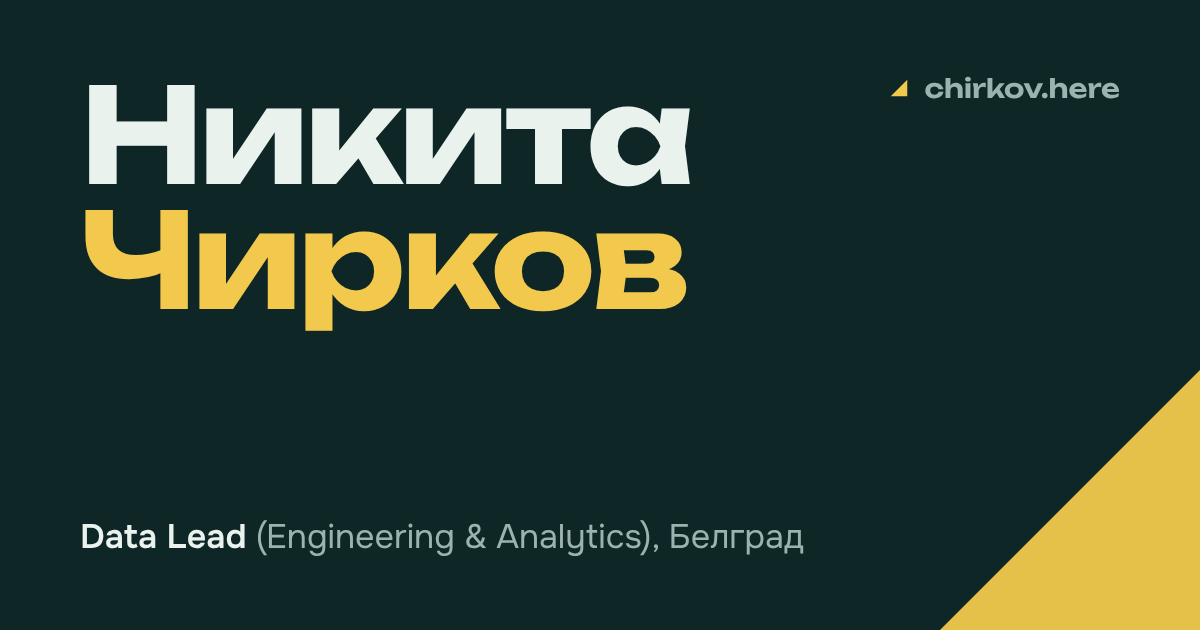
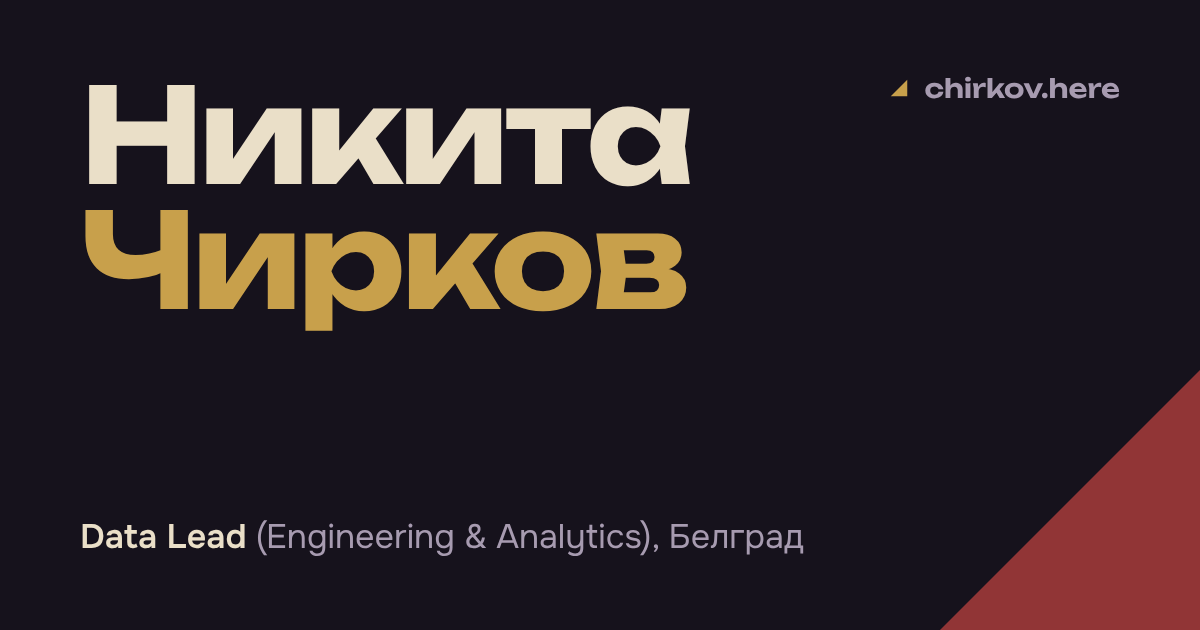
Dark fantasy palette, add Telegram link
Obsidian background, old gold accents, arcane teal for charts, crimson details.
Removed the footer line about the surname.

diff --git a/index.html b/index.html
@@ -20,12 +20,12 @@
 <meta property="og:image:height" content="630">
 <meta name="twitter:card" content="summary_large_image">
 <link rel="icon" href="/favicon.svg" type="image/svg+xml">
-<meta name="theme-color" content="#0f2627">
+<meta name="theme-color" content="#16121c">
 <link rel="preload" href="/fonts/unbounded-latin-wght-normal.woff2" as="font" type="font/woff2" crossorigin>
 <link rel="preload" href="/fonts/onest-latin-wght-normal.woff2" as="font" type="font/woff2" crossorigin>
 <link rel="stylesheet" href="/style.css">
 <script type="application/ld+json">
-{"@context":"https://schema.org","@type":"Person","@id":"https://chirkov.here/#me","name":"Nikita Chirkov","alternateName":["Никита Чирков","frezj"],"url":"https://chirkov.here/","email":"mailto:nikita@chirkov.here","jobTitle":"Data Lead (Engineering & Analytics)","address":{"@type":"PostalAddress","addressLocality":"Belgrade","addressCountry":"RS"},"alumniOf":[{"@type":"CollegeOrUniversity","name":"Technische Universität Berlin"},{"@type":"CollegeOrUniversity","name":"RUDN University"}],"knowsAbout":["Data engineering","Data warehousing","ClickHouse","Airflow","Spark","dbt","Snowflake","Power BI","A/B testing","Demand forecasting","LLM applications"],"knowsLanguage":["en","ru","sr","es"],"sameAs":["https://www.linkedin.com/in/frezj","https://github.com/frezj"]}
+{"@context":"https://schema.org","@type":"Person","@id":"https://chirkov.here/#me","name":"Nikita Chirkov","alternateName":["Никита Чирков","frezj"],"url":"https://chirkov.here/","email":"mailto:nikita@chirkov.here","jobTitle":"Data Lead (Engineering & Analytics)","address":{"@type":"PostalAddress","addressLocality":"Belgrade","addressCountry":"RS"},"alumniOf":[{"@type":"CollegeOrUniversity","name":"Technische Universität Berlin"},{"@type":"CollegeOrUniversity","name":"RUDN University"}],"knowsAbout":["Data engineering","Data warehousing","ClickHouse","Airflow","Spark","dbt","Snowflake","Power BI","A/B testing","Demand forecasting","LLM applications"],"knowsLanguage":["en","ru","sr","es"],"sameAs":["https://www.linkedin.com/in/frezj","https://github.com/frezj","https://t.me/frezj"]}
 </script>
 <script defer src="/app.js"></script>
 </head>
@@ -34,7 +34,7 @@
 
 <header class="wrap top">
   <a class="mark" href="/" aria-label="Nikita Chirkov, home">
-    <svg viewBox="0 0 16 16" aria-hidden="true"><path d="M2 14 14 2v12z" fill="#f2c94c"/></svg>
+    <svg viewBox="0 0 16 16" aria-hidden="true"><path d="M2 14 14 2v12z" fill="#c8a04b"/></svg>
     chirkov.here
   </a>
   <nav class="lang" aria-label="Language"><span aria-current="page">EN</span><a href="/ru/" hreflang="ru" lang="ru">RU</a></nav>
@@ -49,6 +49,7 @@
       <a class="btn main" href="mailto:nikita@chirkov.here"><svg viewBox="0 0 24 24" fill="none" stroke="currentColor" stroke-width="2" aria-hidden="true"><rect x="3" y="5" width="18" height="14" rx="2"/><path d="m3 7 9 6 9-6"/></svg>nikita@chirkov.here</a>
       <a class="btn" href="https://www.linkedin.com/in/frezj" rel="me">LinkedIn</a>
       <a class="btn" href="https://github.com/frezj" rel="me">GitHub</a>
+      <a class="btn" href="https://t.me/frezj" rel="me">Telegram</a>
     </div>
   </div>
   <aside class="now" aria-label="Current role">
@@ -265,10 +266,11 @@
     <div>
       <h2>Contact</h2>
       <a class="mail" href="mailto:nikita@chirkov.here">nikita@chirkov.here</a>
-      <p>Email is the fastest way to reach me. I answer in English, Russian, Serbian or Spanish.</p>
+      <p>Email or Telegram is the fastest way to reach me. I answer in English, Russian, Serbian or Spanish.</p>
     </div>
     <ul class="links">
       <li><a href="https://www.linkedin.com/in/frezj" rel="me">LinkedIn <small>linkedin.com/in/frezj</small></a></li>
+      <li><a href="https://t.me/frezj" rel="me">Telegram <small>@frezj</small></a></li>
       <li><a href="https://github.com/frezj" rel="me">GitHub <small>github.com/frezj</small></a></li>
       <li><a href="/ru/" hreflang="ru" lang="ru">По-русски <small>chirkov.here/ru</small></a></li>
     </ul>
@@ -279,7 +281,6 @@
 <footer>
   <div class="wrap">
     <span>&copy; 2026 Nikita Chirkov, Belgrade</span>
-    <span>Chirkov comes from <span lang="ru">чирок</span>, the teal duck. Hence the colours.</span>
   </div>
 </footer>
 </body>

diff --git a/ru/index.html b/ru/index.html
@@ -21,12 +21,12 @@
 <meta property="og:image:height" content="630">
 <meta name="twitter:card" content="summary_large_image">
 <link rel="icon" href="/favicon.svg" type="image/svg+xml">
-<meta name="theme-color" content="#0f2627">
+<meta name="theme-color" content="#16121c">
 <link rel="preload" href="/fonts/unbounded-cyrillic-wght-normal.woff2" as="font" type="font/woff2" crossorigin>
 <link rel="preload" href="/fonts/onest-cyrillic-wght-normal.woff2" as="font" type="font/woff2" crossorigin>
 <link rel="stylesheet" href="/style.css">
 <script type="application/ld+json">
-{"@context":"https://schema.org","@type":"Person","@id":"https://chirkov.here/#me","name":"Никита Чирков","alternateName":["Nikita Chirkov","frezj"],"url":"https://chirkov.here/ru/","email":"mailto:nikita@chirkov.here","jobTitle":"Data Lead (Engineering & Analytics)","address":{"@type":"PostalAddress","addressLocality":"Белград","addressCountry":"RS"},"alumniOf":[{"@type":"CollegeOrUniversity","name":"Technische Universität Berlin"},{"@type":"CollegeOrUniversity","name":"РУДН"}],"knowsLanguage":["ru","en","sr","es"],"sameAs":["https://www.linkedin.com/in/frezj","https://github.com/frezj"]}
+{"@context":"https://schema.org","@type":"Person","@id":"https://chirkov.here/#me","name":"Никита Чирков","alternateName":["Nikita Chirkov","frezj"],"url":"https://chirkov.here/ru/","email":"mailto:nikita@chirkov.here","jobTitle":"Data Lead (Engineering & Analytics)","address":{"@type":"PostalAddress","addressLocality":"Белград","addressCountry":"RS"},"alumniOf":[{"@type":"CollegeOrUniversity","name":"Technische Universität Berlin"},{"@type":"CollegeOrUniversity","name":"РУДН"}],"knowsLanguage":["ru","en","sr","es"],"sameAs":["https://www.linkedin.com/in/frezj","https://github.com/frezj","https://t.me/frezj"]}
 </script>
 <script defer src="/app.js"></script>
 </head>
@@ -35,7 +35,7 @@
 
 <header class="wrap top">
   <a class="mark" href="/ru/" aria-label="Никита Чирков, главная">
-    <svg viewBox="0 0 16 16" aria-hidden="true"><path d="M2 14 14 2v12z" fill="#f2c94c"/></svg>
+    <svg viewBox="0 0 16 16" aria-hidden="true"><path d="M2 14 14 2v12z" fill="#c8a04b"/></svg>
     chirkov.here
   </a>
   <nav class="lang" aria-label="Язык"><a href="/" hreflang="en" lang="en">EN</a><span aria-current="page">RU</span></nav>
@@ -50,6 +50,7 @@
       <a class="btn main" href="mailto:nikita@chirkov.here"><svg viewBox="0 0 24 24" fill="none" stroke="currentColor" stroke-width="2" aria-hidden="true"><rect x="3" y="5" width="18" height="14" rx="2"/><path d="m3 7 9 6 9-6"/></svg>nikita@chirkov.here</a>
       <a class="btn" href="https://www.linkedin.com/in/frezj" rel="me">LinkedIn</a>
       <a class="btn" href="https://github.com/frezj" rel="me">GitHub</a>
+      <a class="btn" href="https://t.me/frezj" rel="me">Telegram</a>
     </div>
   </div>
   <aside class="now" aria-label="Текущая работа">
@@ -266,10 +267,11 @@
     <div>
       <h2>Контакты</h2>
       <a class="mail" href="mailto:nikita@chirkov.here">nikita@chirkov.here</a>
-      <p>Быстрее всего написать на почту. Отвечаю на русском, английском, сербском или испанском.</p>
+      <p>Быстрее всего написать на почту или в Telegram. Отвечаю на русском, английском, сербском или испанском.</p>
     </div>
     <ul class="links">
       <li><a href="https://www.linkedin.com/in/frezj" rel="me">LinkedIn <small>linkedin.com/in/frezj</small></a></li>
+      <li><a href="https://t.me/frezj" rel="me">Telegram <small>@frezj</small></a></li>
       <li><a href="https://github.com/frezj" rel="me">GitHub <small>github.com/frezj</small></a></li>
       <li><a href="/" hreflang="en" lang="en">In English <small>chirkov.here</small></a></li>
     </ul>
@@ -280,7 +282,6 @@
 <footer>
   <div class="wrap">
     <span>&copy; 2026 Никита Чирков, Белград</span>
-    <span>Фамилия Чирков от слова «чирок». Отсюда и цвета.</span>
   </div>
 </footer>
 </body>

diff --git a/style.css b/style.css
@@ -4,18 +4,20 @@
 @font-face{font-family:"Onest";font-style:normal;font-display:swap;font-weight:100 900;src:url(/fonts/onest-cyrillic-wght-normal.woff2) format("woff2");unicode-range:U+0301,U+0400-045F,U+0490-0491,U+04B0-04B1,U+2116}
 
 :root{
-  --bg:#0f2627;--bg2:#143133;--bg3:#1a3b3d;--line:#24494a;
-  --ink:#eaf2ee;--muted:#9bb3ae;--soft:#6f8c87;
-  --yellow:#f2c94c;--accent:#f2c94c;--on-yellow:#13221f;--green:#3cc9a7;--before:#2c5052;
+  --bg:#16121c;--bg2:#221b2b;--bg3:#2b2236;--line:#3a2f45;
+  --ink:#eadfc8;--muted:#a79bb0;--soft:#7d7088;
+  --yellow:#c8a04b;--accent:#d2ac58;--on-yellow:#16121c;--green:#4fc1b5;--before:#3a2f45;
+  --arcane:#4fc1b5;--crimson:#9e3a3a;
   --display:"Unbounded",system-ui,sans-serif;
   --text:"Onest",system-ui,-apple-system,"Segoe UI",Roboto,sans-serif;
   --wrap:72rem;--r:14px;
   color-scheme:dark light;
 }
 @media (prefers-color-scheme:light){
-  :root{--bg:#f1f5f2;--bg2:#e5ece8;--bg3:#d9e3de;--line:#c6d4ce;
-  --ink:#0f2627;--muted:#4c625e;--soft:#6c827d;
-  --yellow:#f2c94c;--accent:#8a6500;--on-yellow:#13221f;--green:#16856c;--before:#c3d2cc}
+  :root{--bg:#f1e9d8;--bg2:#e8dec8;--bg3:#ddd1b8;--line:#cdbf9f;
+  --ink:#1e1826;--muted:#5a4f63;--soft:#7a6f80;
+  --yellow:#c8a04b;--accent:#7a5a12;--on-yellow:#16121c;--green:#1f7f76;--before:#cdbf9f;
+  --arcane:#1f7f76;--crimson:#8a2f2f}
 }
 *{box-sizing:border-box}
 html{-webkit-text-size-adjust:100%;scroll-padding-top:5rem}
@@ -51,7 +53,7 @@ p{margin:0 0 1rem}
 .btn.main{background:var(--yellow);border-color:var(--yellow);color:var(--on-yellow)}
 .btn.main:hover{background:transparent;color:var(--yellow)}
 .btn svg{width:18px;height:18px;flex:none}
-.now{background:var(--bg2);border:1px solid var(--line);border-radius:var(--r);padding:1.25rem 1.35rem}
+.now{background:var(--bg2);border:1px solid var(--line);border-top:3px solid var(--crimson);border-radius:var(--r);padding:1.25rem 1.35rem}
 .now h2{font-size:.8rem;font-weight:600;color:var(--green);margin-bottom:.6rem;letter-spacing:.02em}
 .now p{margin:0;font-size:1rem}
 .now .co{font:600 1.15rem var(--display);margin-bottom:.35rem}
@@ -98,7 +100,7 @@ html:not(.js) .panel{border-bottom:1px solid var(--line)}
 .b i{font-style:normal;font-variant-numeric:tabular-nums;font-size:.92rem;text-align:right;color:var(--muted)}
 .b::after{content:"";height:12px;width:var(--w);background:var(--before);border-radius:0 6px 6px 0;transform-origin:left}
 .b.after i{color:var(--ink);font:700 .98rem var(--display)}
-.b.after::after{background:var(--yellow)}
+.b.after::after{background:var(--arcane)}
 .panel.in .b::after{animation:grow .8s cubic-bezier(.2,.7,.2,1) both}
 .panel.in .b.after::after{animation-delay:.18s}
 @keyframes grow{from{transform:scaleX(0)}}
@@ -128,7 +130,7 @@ html:not(.js) .panel{border-bottom:1px solid var(--line)}
 .tags{display:flex;flex-wrap:wrap;gap:.4rem;margin-top:.9rem}
 .tag{font-size:.82rem;padding:.2rem .6rem;border-radius:999px;background:var(--bg3);color:var(--muted)}
 .edu{margin-top:2.5rem;display:grid;grid-template-columns:repeat(2,minmax(0,1fr));gap:1rem}
-.edu div{border-top:2px solid var(--yellow);padding-top:.9rem}
+.edu div{border-top:2px solid var(--crimson);padding-top:.9rem}
 .edu h3{font-size:1rem;margin-bottom:.25rem}
 .edu p{color:var(--muted);margin:0;font-size:.95rem}
 
